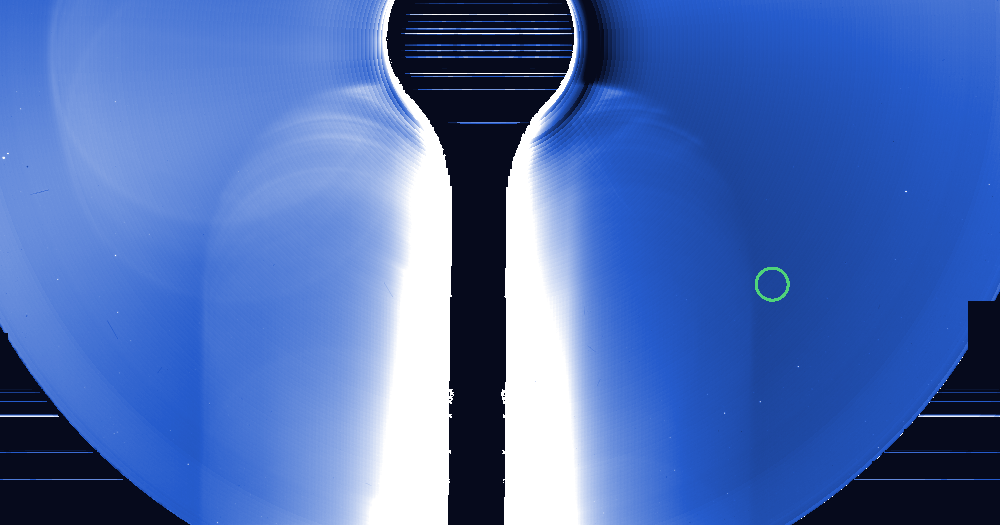
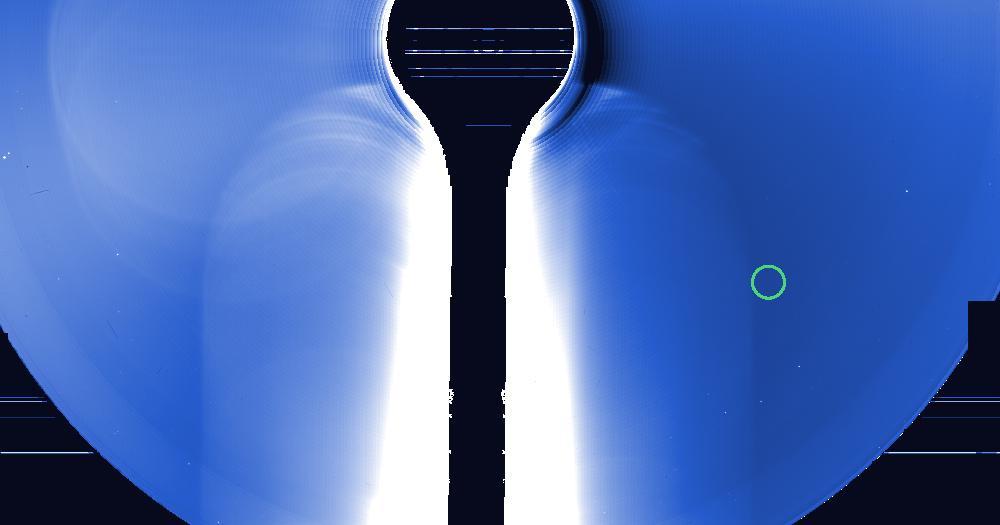
Live find 20261102T1115_1748_1520: hunter's package

diff --git a/results/ccor1/live-finds/20261102T1115_1748_1520/index.html b/results/ccor1/live-finds/20261102T1115_1748_1520/index.html
@@ -1,7 +1,7 @@
 <!doctype html>
 <html lang="en"><head><meta charset="utf-8"><meta name="viewport" content="width=device-width,initial-scale=1"><title>CCOR-1 candidate 20261102T1115_1748_1520</title>
 <meta property="og:title" content="CCOR-1 candidate 20261102T1115_1748_1520">
-<meta property="og:description" content="23 frames, 2026-11-02 11:15 to 16:45 UTC, peak 21 sigma, brightening.">
+<meta property="og:description" content="24 frames, 2026-11-02 11:15 to 17:00 UTC, peak 21 sigma, brightening.">
 <meta property="og:type" content="article">
 <meta name="twitter:card" content="summary_large_image">
 <meta property="og:url" content="https://scottholdren.github.io/sungrazer/results/ccor1/live-finds/20261102T1115_1748_1520/">
@@ -12,13 +12,13 @@
 <style>body{background:#0b0e14;color:#e6e6e6;font:15px/1.5 system-ui,sans-serif;max-width:980px;margin:0 auto;padding:16px}img{max-width:100%;height:auto;display:block;margin:8px 0}table{border-collapse:collapse;font-size:14px}th,td{border-bottom:1px solid #2a3140;padding:3px 10px;text-align:left}pre{background:#141a25;padding:10px;overflow:auto}a{color:#9ecbff}h1{font-size:22px}h2{font-size:17px;margin-top:28px;color:#9ecbff}code{background:#141a25;padding:0 4px}</style></head>
 <body>
 <h1>CCOR-1 candidate 20261102T1115_1748_1520</h1>
-<p><b>23 frames, 2026-11-02 11:15 to 16:45 UTC, peak 21 sigma, brightening.</b></p>
-<ul><li>Detected by the kreutz shift-and-stack search (8 frames stacked along the fitted motion); status candidate, alert tier since 16:00 UTC.</li><li>Motion (-7.1, -3.8) px per 15-min frame, 8.1 px/frame.</li><li>Last position 764 px from the Sun at position angle -40 deg, heading 12 deg off the Sun direction (Kreutz comets in CCOR-1 arrive from the lower right, position angle -10 to -45 deg, and head within ~20 deg of the Sun).</li><li>No CCOR-1 report matches it on the Sungrazer site.</li></ul>
+<p><b>24 frames, 2026-11-02 11:15 to 17:00 UTC, peak 21 sigma, brightening.</b></p>
+<ul><li>Detected by the kreutz shift-and-stack search (8 frames stacked along the fitted motion); status candidate, alert tier since 16:00 UTC.</li><li>Motion (-7.1, -3.8) px per 15-min frame, 8.1 px/frame.</li><li>Last position 755 px from the Sun at position angle -40 deg, heading 12 deg off the Sun direction (Kreutz comets in CCOR-1 arrive from the lower right, position angle -10 to -45 deg, and head within ~20 deg of the Sun).</li><li>No CCOR-1 report matches it on the Sungrazer site.</li></ul>
 <h2>Movie</h2>
 <p>A fixed patch of sky at 2x the camera's resolution: significance maps (stars and corona modelled out), the last 8 maps added along the fitted motion, black below 2.5 sigma. The ring rides the fitted path: green on frames with a measured hit, yellow before the first hit. A real object crosses the patch inside the ring; noise does not travel.</p>
 <p><img alt="movie" src="movie.gif"></p>
 <h2>Full field</h2>
-<p>The Sun's surroundings and the object's path at half resolution, the last frames up to the newest hit: each frame minus the median of the five before it, no stacking, on a linear scale from -2 sigma of the frame's noise (so the noise shows as texture). For where the object sits in the corona and what else is moving; a faint object is easier to judge in the stacked patch above.</p>
+<p>The Sun's surroundings and the object's path at half resolution, the last frames up to the newest hit: each frame minus the minimum of the previous 24 hours (streamers and stars stay, the static corona and glare cancel), lightly smoothed, no stacking, on a linear scale from -1 sigma of the frame's noise (so the noise shows as grain). The crosshair follows the fitted path, yellow on a measured hit. For where the object sits in the corona and what else is moving; a faint object is easier to judge in the stacked patch above.</p>
 <p><img alt="full field" src="field.gif"></p>
 <h2>Contact sheet</h2>
 <p>Top: raw frame. Middle: significance map of that frame. Bottom: the detector's view, the last 8 maps stacked along the motion. Ticks mark the predicted position; a comet is a steady dot on the ticks.</p>
@@ -26,7 +26,7 @@
 <p><img alt="stacked cutout around the newest hit" src="thumb.png"></p>
 <h2>Positions</h2>
 <p>2048x1920 full-resolution frame, origin upper left, x right, y down, 0-based (the Sungrazer 'Upper Left' convention). They are the centre of the stacked detection predicted from the fitted motion, good to about a pixel, not per-frame centroids; hunters' measurements tend to fall ~1 px right and up of these.</p>
-<table><tr><th>date</th><th>HHMM</th><th>x</th><th>y</th><th>sigma</th></tr><tr><td>2026-11-02</td><td>1115</td><td>1748</td><td>1520</td><td>8.0</td></tr><tr><td>2026-11-02</td><td>1130</td><td>1740</td><td>1516</td><td>8.5</td></tr><tr><td>2026-11-02</td><td>1145</td><td>1732</td><td>1512</td><td>9.2</td></tr><tr><td>2026-11-02</td><td>1200</td><td>1724</td><td>1508</td><td>8.9</td></tr><tr><td>2026-11-02</td><td>1215</td><td>1718</td><td>1504</td><td>8.8</td></tr><tr><td>2026-11-02</td><td>1230</td><td>1712</td><td>1500</td><td>9.4</td></tr><tr><td>2026-11-02</td><td>1245</td><td>1704</td><td>1498</td><td>8.9</td></tr><tr><td>2026-11-02</td><td>1300</td><td>1696</td><td>1494</td><td>9.1</td></tr><tr><td>2026-11-02</td><td>1315</td><td>1690</td><td>1490</td><td>10.9</td></tr><tr><td>2026-11-02</td><td>1330</td><td>1684</td><td>1486</td><td>11.8</td></tr><tr><td>2026-11-02</td><td>1345</td><td>1676</td><td>1482</td><td>10.6</td></tr><tr><td>2026-11-02</td><td>1400</td><td>1670</td><td>1480</td><td>11.7</td></tr><tr><td>2026-11-02</td><td>1415</td><td>1662</td><td>1474</td><td>14.1</td></tr><tr><td>2026-11-02</td><td>1430</td><td>1656</td><td>1470</td><td>12.4</td></tr><tr><td>2026-11-02</td><td>1445</td><td>1648</td><td>1468</td><td>11.8</td></tr><tr><td>2026-11-02</td><td>1500</td><td>1640</td><td>1464</td><td>11.9</td></tr><tr><td>2026-11-02</td><td>1515</td><td>1634</td><td>1460</td><td>12.1</td></tr><tr><td>2026-11-02</td><td>1530</td><td>1626</td><td>1456</td><td>13.4</td></tr><tr><td>2026-11-02</td><td>1545</td><td>1620</td><td>1452</td><td>13.1</td></tr><tr><td>2026-11-02</td><td>1600</td><td>1612</td><td>1448</td><td>17.9</td></tr><tr><td>2026-11-02</td><td>1615</td><td>1604</td><td>1444</td><td>18.7</td></tr><tr><td>2026-11-02</td><td>1630</td><td>1598</td><td>1440</td><td>16.7</td></tr><tr><td>2026-11-02</td><td>1645</td><td>1590</td><td>1436</td><td>20.6</td></tr></table>
+<table><tr><th>date</th><th>HHMM</th><th>x</th><th>y</th><th>sigma</th></tr><tr><td>2026-11-02</td><td>1115</td><td>1748</td><td>1520</td><td>8.0</td></tr><tr><td>2026-11-02</td><td>1130</td><td>1740</td><td>1516</td><td>8.5</td></tr><tr><td>2026-11-02</td><td>1145</td><td>1732</td><td>1512</td><td>9.2</td></tr><tr><td>2026-11-02</td><td>1200</td><td>1724</td><td>1508</td><td>8.9</td></tr><tr><td>2026-11-02</td><td>1215</td><td>1718</td><td>1504</td><td>8.8</td></tr><tr><td>2026-11-02</td><td>1230</td><td>1712</td><td>1500</td><td>9.4</td></tr><tr><td>2026-11-02</td><td>1245</td><td>1704</td><td>1498</td><td>8.9</td></tr><tr><td>2026-11-02</td><td>1300</td><td>1696</td><td>1494</td><td>9.1</td></tr><tr><td>2026-11-02</td><td>1315</td><td>1690</td><td>1490</td><td>10.9</td></tr><tr><td>2026-11-02</td><td>1330</td><td>1684</td><td>1486</td><td>11.8</td></tr><tr><td>2026-11-02</td><td>1345</td><td>1676</td><td>1482</td><td>10.6</td></tr><tr><td>2026-11-02</td><td>1400</td><td>1670</td><td>1480</td><td>11.7</td></tr><tr><td>2026-11-02</td><td>1415</td><td>1662</td><td>1474</td><td>14.1</td></tr><tr><td>2026-11-02</td><td>1430</td><td>1656</td><td>1470</td><td>12.4</td></tr><tr><td>2026-11-02</td><td>1445</td><td>1648</td><td>1468</td><td>11.8</td></tr><tr><td>2026-11-02</td><td>1500</td><td>1640</td><td>1464</td><td>11.9</td></tr><tr><td>2026-11-02</td><td>1515</td><td>1634</td><td>1460</td><td>12.1</td></tr><tr><td>2026-11-02</td><td>1530</td><td>1626</td><td>1456</td><td>13.4</td></tr><tr><td>2026-11-02</td><td>1545</td><td>1620</td><td>1452</td><td>13.1</td></tr><tr><td>2026-11-02</td><td>1600</td><td>1612</td><td>1448</td><td>17.9</td></tr><tr><td>2026-11-02</td><td>1615</td><td>1604</td><td>1444</td><td>18.7</td></tr><tr><td>2026-11-02</td><td>1630</td><td>1598</td><td>1440</td><td>16.7</td></tr><tr><td>2026-11-02</td><td>1645</td><td>1590</td><td>1436</td><td>20.6</td></tr><tr><td>2026-11-02</td><td>1700</td><td>1582</td><td>1432</td><td>19.9</td></tr></table>
 <p>Form layout (HHMM x y):</p>
 <pre>1115 1748 1520
 1130 1740 1516
@@ -50,9 +50,10 @@
 1600 1612 1448
 1615 1604 1444
 1630 1598 1440
-1645 1590 1436</pre>
+1645 1590 1436
+1700 1582 1432</pre>
 <h2>Movie frames</h2>
 <p>Sigma inside the ring on the fitted position vs the brightest 0.1% of the whole patch. A real object sits clearly above the tail.</p>
-<table><tr><th>frame</th><th>ring</th><th>tail</th><th></th></tr><tr><td>20261102T101525</td><td>8.6</td><td>5.3</td><td></td></tr><tr><td>20261102T103025</td><td>8.9</td><td>5.3</td><td></td></tr><tr><td>20261102T104525</td><td>9.0</td><td>5.2</td><td></td></tr><tr><td>20261102T110025</td><td>8.6</td><td>5.1</td><td></td></tr><tr><td>20261102T111525</td><td>8.2</td><td>5.3</td><td>hit</td></tr><tr><td>20261102T113025</td><td>10.3</td><td>5.1</td><td>hit</td></tr><tr><td>20261102T114525</td><td>9.3</td><td>5.1</td><td>hit</td></tr><tr><td>20261102T120025</td><td>9.4</td><td>5.3</td><td>hit</td></tr><tr><td>20261102T121525</td><td>9.7</td><td>5.2</td><td>hit</td></tr><tr><td>20261102T123025</td><td>10.1</td><td>5.2</td><td>hit</td></tr><tr><td>20261102T124525</td><td>10.0</td><td>5.5</td><td>hit</td></tr><tr><td>20261102T130025</td><td>13.2</td><td>5.3</td><td>hit</td></tr><tr><td>20261102T131525</td><td>10.7</td><td>5.4</td><td>hit</td></tr><tr><td>20261102T133025</td><td>13.6</td><td>5.3</td><td>hit</td></tr><tr><td>20261102T134525</td><td>12.5</td><td>5.4</td><td>hit</td></tr><tr><td>20261102T140025</td><td>14.9</td><td>5.3</td><td>hit</td></tr><tr><td>20261102T141525</td><td>14.7</td><td>5.4</td><td>hit</td></tr><tr><td>20261102T143025</td><td>12.2</td><td>5.3</td><td>hit</td></tr><tr><td>20261102T144525</td><td>14.5</td><td>5.2</td><td>hit</td></tr><tr><td>20261102T150025</td><td>13.9</td><td>5.4</td><td>hit</td></tr><tr><td>20261102T151525</td><td>14.6</td><td>5.5</td><td>hit</td></tr><tr><td>20261102T153025</td><td>15.5</td><td>5.5</td><td>hit</td></tr><tr><td>20261102T154525</td><td>18.2</td><td>5.2</td><td>hit</td></tr><tr><td>20261102T160025</td><td>17.7</td><td>5.4</td><td>hit</td></tr><tr><td>20261102T161525</td><td>21.7</td><td>5.3</td><td>hit</td></tr><tr><td>20261102T163025</td><td>19.5</td><td>5.3</td><td>hit</td></tr><tr><td>20261102T164525</td><td>20.3</td><td>5.2</td><td>hit</td></tr></table>
-<p><i>Written 2026-11-02 17:32 UTC.</i></p>
+<table><tr><th>frame</th><th>ring</th><th>tail</th><th></th></tr><tr><td>20261102T101525</td><td>10.1</td><td>5.3</td><td></td></tr><tr><td>20261102T103025</td><td>8.5</td><td>5.3</td><td></td></tr><tr><td>20261102T104525</td><td>8.7</td><td>5.1</td><td></td></tr><tr><td>20261102T110025</td><td>7.8</td><td>5.2</td><td></td></tr><tr><td>20261102T111525</td><td>8.4</td><td>5.3</td><td>hit</td></tr><tr><td>20261102T113025</td><td>10.5</td><td>5.0</td><td>hit</td></tr><tr><td>20261102T114525</td><td>10.5</td><td>5.2</td><td>hit</td></tr><tr><td>20261102T120025</td><td>9.0</td><td>5.3</td><td>hit</td></tr><tr><td>20261102T121525</td><td>9.7</td><td>5.1</td><td>hit</td></tr><tr><td>20261102T123025</td><td>9.6</td><td>5.0</td><td>hit</td></tr><tr><td>20261102T124525</td><td>9.7</td><td>5.5</td><td>hit</td></tr><tr><td>20261102T130025</td><td>12.9</td><td>5.4</td><td>hit</td></tr><tr><td>20261102T131525</td><td>12.0</td><td>5.2</td><td>hit</td></tr><tr><td>20261102T133025</td><td>12.6</td><td>5.3</td><td>hit</td></tr><tr><td>20261102T134525</td><td>14.7</td><td>5.2</td><td>hit</td></tr><tr><td>20261102T140025</td><td>13.4</td><td>5.4</td><td>hit</td></tr><tr><td>20261102T141525</td><td>16.0</td><td>5.5</td><td>hit</td></tr><tr><td>20261102T143025</td><td>11.3</td><td>5.3</td><td>hit</td></tr><tr><td>20261102T144525</td><td>14.4</td><td>5.5</td><td>hit</td></tr><tr><td>20261102T150025</td><td>13.7</td><td>5.3</td><td>hit</td></tr><tr><td>20261102T151525</td><td>16.0</td><td>5.6</td><td>hit</td></tr><tr><td>20261102T153025</td><td>15.5</td><td>5.3</td><td>hit</td></tr><tr><td>20261102T154525</td><td>18.9</td><td>5.6</td><td>hit</td></tr><tr><td>20261102T160025</td><td>20.3</td><td>5.2</td><td>hit</td></tr><tr><td>20261102T161525</td><td>20.0</td><td>5.2</td><td>hit</td></tr><tr><td>20261102T163025</td><td>22.1</td><td>5.1</td><td>hit</td></tr><tr><td>20261102T164525</td><td>17.5</td><td>5.3</td><td>hit</td></tr><tr><td>20261102T170025</td><td>19.6</td><td>5.3</td><td>hit</td></tr></table>
+<p><i>Written 2026-11-02 17:48 UTC.</i></p>
 </body></html>

diff --git a/results/ccor1/live-finds/20261102T1115_1748_1520/README.md b/results/ccor1/live-finds/20261102T1115_1748_1520/README.md
@@ -1,10 +1,10 @@
 # CCOR-1 candidate 20261102T1115_1748_1520
 
-**23 frames, 2026-11-02 11:15 to 16:45 UTC, peak 21 sigma, brightening.**
+**24 frames, 2026-11-02 11:15 to 17:00 UTC, peak 21 sigma, brightening.**
 
 - Detected by the kreutz shift-and-stack search (8 frames stacked along the fitted motion); status candidate, alert tier since 16:00 UTC.
 - Motion (-7.1, -3.8) px per 15-min frame, 8.1 px/frame.
-- Last position 764 px from the Sun at position angle -40 deg, heading 12 deg off the Sun direction (Kreutz comets in CCOR-1 arrive from the lower right, position angle -10 to -45 deg, and head within ~20 deg of the Sun).
+- Last position 755 px from the Sun at position angle -40 deg, heading 12 deg off the Sun direction (Kreutz comets in CCOR-1 arrive from the lower right, position angle -10 to -45 deg, and head within ~20 deg of the Sun).
 - No CCOR-1 report matches it on the Sungrazer site.
 
 ## Movie
@@ -15,7 +15,7 @@ A fixed patch of sky at 2x the camera's resolution: significance maps (stars and
 
 ## Full field
 
-The Sun's surroundings and the object's path at half resolution, the last frames up to the newest hit: each frame minus the median of the five before it, no stacking, on a linear scale from -2 sigma of the frame's noise (so the noise shows as texture). For where the object sits in the corona and what else is moving; a faint object is easier to judge in the stacked patch above.
+The Sun's surroundings and the object's path at half resolution, the last frames up to the newest hit: each frame minus the minimum of the previous 24 hours (streamers and stars stay, the static corona and glare cancel), lightly smoothed, no stacking, on a linear scale from -1 sigma of the frame's noise (so the noise shows as grain). The crosshair follows the fitted path, yellow on a measured hit. For where the object sits in the corona and what else is moving; a faint object is easier to judge in the stacked patch above.
 
 ![full field](field.gif)
 
@@ -56,6 +56,7 @@ Top: raw frame. Middle: significance map of that frame. Bottom: the detector's v
 | 2026-11-02 | 1615 | 1604 | 1444 | 18.7 |
 | 2026-11-02 | 1630 | 1598 | 1440 | 16.7 |
 | 2026-11-02 | 1645 | 1590 | 1436 | 20.6 |
+| 2026-11-02 | 1700 | 1582 | 1432 | 19.9 |
 
 Form layout (HHMM x y):
 
@@ -83,6 +84,7 @@ Form layout (HHMM x y):
 1615 1604 1444
 1630 1598 1440
 1645 1590 1436
+1700 1582 1432
 ```
 
 ## Movie frames
@@ -91,32 +93,33 @@ Sigma inside the ring on the fitted position vs the brightest 0.1% of the whole 
 
 | frame | ring | tail | |
 |---|---|---|---|
-| 20261102T101525 | 8.6 | 5.3 |  |
-| 20261102T103025 | 8.9 | 5.3 |  |
-| 20261102T104525 | 9.0 | 5.2 |  |
-| 20261102T110025 | 8.6 | 5.1 |  |
-| 20261102T111525 | 8.2 | 5.3 | hit |
-| 20261102T113025 | 10.3 | 5.1 | hit |
-| 20261102T114525 | 9.3 | 5.1 | hit |
-| 20261102T120025 | 9.4 | 5.3 | hit |
-| 20261102T121525 | 9.7 | 5.2 | hit |
-| 20261102T123025 | 10.1 | 5.2 | hit |
-| 20261102T124525 | 10.0 | 5.5 | hit |
-| 20261102T130025 | 13.2 | 5.3 | hit |
-| 20261102T131525 | 10.7 | 5.4 | hit |
-| 20261102T133025 | 13.6 | 5.3 | hit |
-| 20261102T134525 | 12.5 | 5.4 | hit |
-| 20261102T140025 | 14.9 | 5.3 | hit |
-| 20261102T141525 | 14.7 | 5.4 | hit |
-| 20261102T143025 | 12.2 | 5.3 | hit |
-| 20261102T144525 | 14.5 | 5.2 | hit |
-| 20261102T150025 | 13.9 | 5.4 | hit |
-| 20261102T151525 | 14.6 | 5.5 | hit |
-| 20261102T153025 | 15.5 | 5.5 | hit |
-| 20261102T154525 | 18.2 | 5.2 | hit |
-| 20261102T160025 | 17.7 | 5.4 | hit |
-| 20261102T161525 | 21.7 | 5.3 | hit |
-| 20261102T163025 | 19.5 | 5.3 | hit |
-| 20261102T164525 | 20.3 | 5.2 | hit |
+| 20261102T101525 | 10.1 | 5.3 |  |
+| 20261102T103025 | 8.5 | 5.3 |  |
+| 20261102T104525 | 8.7 | 5.1 |  |
+| 20261102T110025 | 7.8 | 5.2 |  |
+| 20261102T111525 | 8.4 | 5.3 | hit |
+| 20261102T113025 | 10.5 | 5.0 | hit |
+| 20261102T114525 | 10.5 | 5.2 | hit |
+| 20261102T120025 | 9.0 | 5.3 | hit |
+| 20261102T121525 | 9.7 | 5.1 | hit |
+| 20261102T123025 | 9.6 | 5.0 | hit |
+| 20261102T124525 | 9.7 | 5.5 | hit |
+| 20261102T130025 | 12.9 | 5.4 | hit |
+| 20261102T131525 | 12.0 | 5.2 | hit |
+| 20261102T133025 | 12.6 | 5.3 | hit |
+| 20261102T134525 | 14.7 | 5.2 | hit |
+| 20261102T140025 | 13.4 | 5.4 | hit |
+| 20261102T141525 | 16.0 | 5.5 | hit |
+| 20261102T143025 | 11.3 | 5.3 | hit |
+| 20261102T144525 | 14.4 | 5.5 | hit |
+| 20261102T150025 | 13.7 | 5.3 | hit |
+| 20261102T151525 | 16.0 | 5.6 | hit |
+| 20261102T153025 | 15.5 | 5.3 | hit |
+| 20261102T154525 | 18.9 | 5.6 | hit |
+| 20261102T160025 | 20.3 | 5.2 | hit |
+| 20261102T161525 | 20.0 | 5.2 | hit |
+| 20261102T163025 | 22.1 | 5.1 | hit |
+| 20261102T164525 | 17.5 | 5.3 | hit |
+| 20261102T170025 | 19.6 | 5.3 | hit |
 
-*Written 2026-11-02 17:32 UTC.*
+*Written 2026-11-02 17:48 UTC.*
